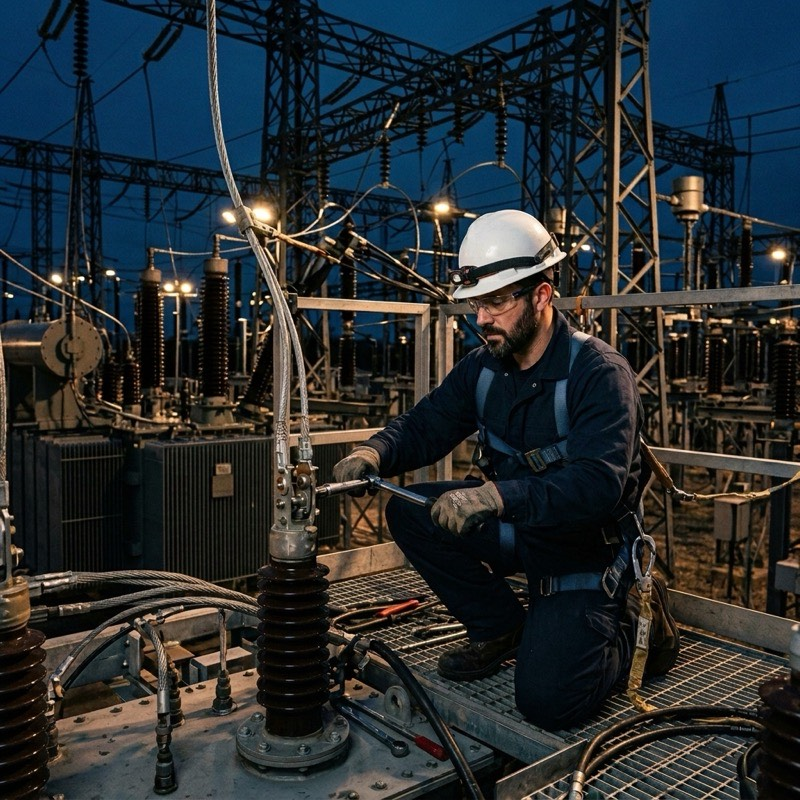
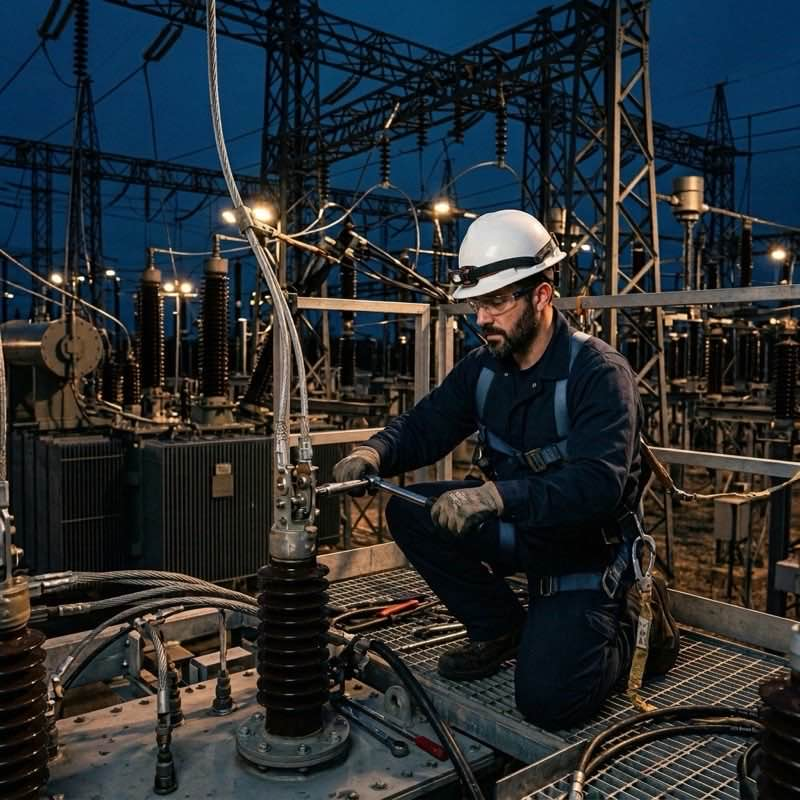
Optimize advantage images weight and adjust bento card dimensions

diff --git a/src/styles/global.css b/src/styles/global.css
@@ -531,6 +531,10 @@ a {
   color: var(--color-text-light);
 }
 
+.advantages .container {
+  max-width: 1400px;
+}
+
 /* Bento Box Grid */
 .bento-grid {
   display: grid;
@@ -554,11 +558,11 @@ a {
 
 .main-card {
   grid-column: 1 / -1;
-  min-height: 400px;
+  min-height: 500px;
 }
 
 .side-card {
-  min-height: 350px;
+  min-height: 450px;
 }
 
 .bento-card:hover {

diff --git a/.astro/types.d.ts b/.astro/types.d.ts
@@ -1,1 +1,2 @@
 /// <reference types="astro/client" />
+/// <reference path="content.d.ts" />
